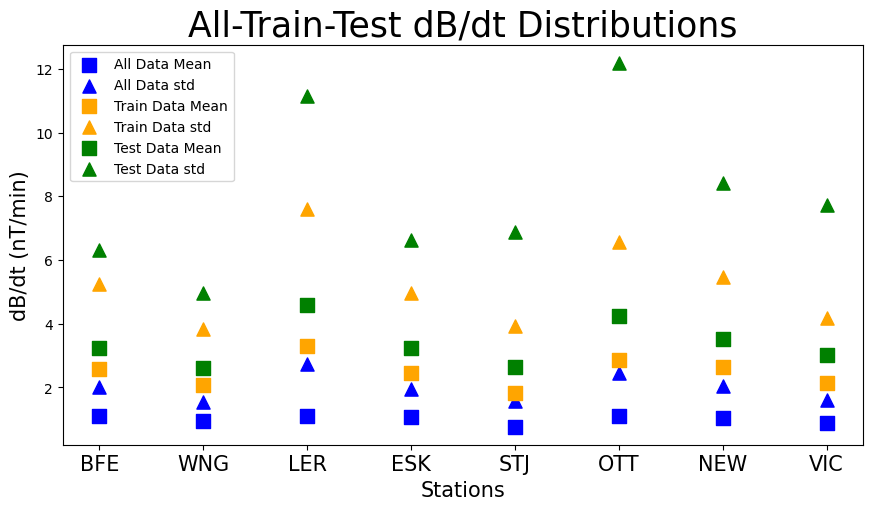
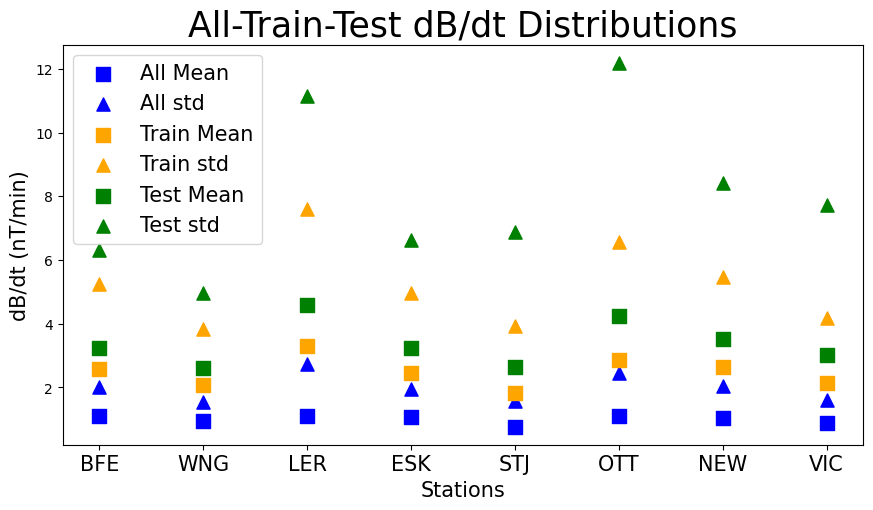
updating plots

Changed region(s): [[0.0928, 0.0882, 0.3093, 0.4706], [0.0928, 0.4412, 0.1237, 0.4706]]

diff --git a/plotting.py b/plotting.py
@@ -207,7 +207,7 @@ def plot_total_metrics(metrics_dict, stations, metrics=['HSS', 'AUC', 'RMSE']):
 
 
 		ax.errorbar(X, y0, yerr=[ymin0, ymax0], fmt='.', color=color0, label='{0}'.format(metric), elinewidth=3, markersize=15, capsize=4, capthick=3)		# plotting the center point with the error bars. list order is important in the y array so it cooresponds to the x label
-		ax.scatter(X, metrics_dict['pers_{0}'.format(metric)], marker='^', color=color1, label='persistance_{0}'.format(metric), s=150)
+		ax.scatter(X, metrics_dict['pers_{0}'.format(metric)], marker='^', color=color1, label='pers.{0}'.format(metric), s=150)
 	# plt.ylim(0,1)																# keeping the plot within limits to eliminate as much white space as possible.
 	# plt.xlim(0,70)
 	plt.xlabel('Stations', fontsize='15')			# adding the label on the x axis label
@@ -413,12 +413,12 @@ def plot_model_outputs(results_dict, storm, splits, title, stime, etime):
 	w1=np.array(BFE_bar['pers_bottom'])
 	w2=np.array(BFE_bar['pers_top'])
 	ax1.plot(BFE['mean'], label='mean')								# plots the mean columns of the dataframe.
-	ax1.fill_between(BFE.index, BFE['bottom_perc'], BFE['top_perc'], alpha=0.2, label='$95^{th}$ percentile')	# type: ignore # fills the area between the confidence interval with a lighter shade
-	ax1.fill_between(BFE_bar.index, BFE_bar['BFE_bottom'], BFE_bar['BFE_top'], where=z2>z1, alpha=1, label='ground truth')												# type: ignore # creates a bar at the top of the plot indicating the positve part of the binary real data
+	ax1.fill_between(BFE.index, BFE['bottom_perc'], BFE['top_perc'], alpha=0.2, label='$95^{th}$ percentile', color='indigo')	# type: ignore # fills the area between the confidence interval with a lighter shade
+	ax1.fill_between(BFE_bar.index, BFE_bar['BFE_bottom'], BFE_bar['BFE_top'], where=z2>z1, alpha=1, label='ground truth', color='orange')												# type: ignore # creates a bar at the top of the plot indicating the positve part of the binary real data
 	ax1.fill_between(BFE_bar.index, BFE_bar['pers_bottom'], BFE_bar['pers_top'], where=w2>w1, alpha=1, color='black', label='persistance')												# type: ignore # creates a bar at the top of the plot indicating the positve part of the binary real data
 	ax1.margins(x=0)							# tightning the plot margins
-	ax1.set_ylabel('BFE', fontsize='15')
-	plt.legend()
+	ax1.set_ylabel('BFE', fontsize='20')
+	# plt.legend()
 	plt.yticks(fontsize='10')
 	# ax1.xaxis.set_major_locator(ticker.NullLocator())
 	ax1.set_xticklabels([], fontsize=0)
@@ -429,11 +429,11 @@ def plot_model_outputs(results_dict, storm, splits, title, stime, etime):
 	w1=np.array(WNG_bar['pers_bottom'])
 	w2=np.array(WNG_bar['pers_top'])
 	ax2.plot(WNG.index, WNG['mean'])
-	ax2.fill_between(WNG.index, WNG['bottom_perc'], WNG['top_perc'], alpha=0.2)  # type: ignore
-	ax2.fill_between(WNG_bar.index, WNG_bar['WNG_bottom'], WNG_bar['WNG_top'], where=z2>z1, alpha=1)  # type: ignore
+	ax2.fill_between(WNG.index, WNG['bottom_perc'], WNG['top_perc'], alpha=0.2, color='indigo')  # type: ignore
+	ax2.fill_between(WNG_bar.index, WNG_bar['WNG_bottom'], WNG_bar['WNG_top'], where=z2>z1, alpha=1, color='orange')  # type: ignore
 	ax2.fill_between(WNG_bar.index, WNG_bar['pers_bottom'], WNG_bar['pers_top'], where=w2>w1, alpha=1, color='black')
 	ax2.margins(x=0)
-	ax2.set_ylabel('WNG', fontsize='15')
+	ax2.set_ylabel('WNG', fontsize='20')
 	plt.yticks(fontsize='10')
 	ax2.set_xticklabels([], fontsize=0)			# adds the date to the bottom of the plot
 
@@ -443,11 +443,11 @@ def plot_model_outputs(results_dict, storm, splits, title, stime, etime):
 	w1=np.array(LER_bar['pers_bottom'])
 	w2=np.array(LER_bar['pers_top'])
 	ax3.plot(LER['mean'])								# plots the mean columns of the dataframe.
-	ax3.fill_between(LER.index, LER['bottom_perc'], LER['top_perc'], alpha=0.2)	# type: ignore # fills the area between the confidence interval with a lighter shade
-	ax3.fill_between(LER_bar.index, LER_bar['LER_bottom'], LER_bar['LER_top'], where=z2>z1, alpha=1)												# type: ignore # creates a bar at the top of the plot indicating the positve part of the binary real data
+	ax3.fill_between(LER.index, LER['bottom_perc'], LER['top_perc'], alpha=0.2, color='indigo')	# type: ignore # fills the area between the confidence interval with a lighter shade
+	ax3.fill_between(LER_bar.index, LER_bar['LER_bottom'], LER_bar['LER_top'], where=z2>z1, alpha=1, color='orange')												# type: ignore # creates a bar at the top of the plot indicating the positve part of the binary real data
 	ax3.fill_between(LER_bar.index, LER_bar['pers_bottom'], LER_bar['pers_top'], where=w2>w1, alpha=1, color='black')
 	ax3.margins(x=0)							# tightning the plot margins
-	ax3.set_ylabel('LER', fontsize='15')
+	ax3.set_ylabel('LER', fontsize='20')
 	plt.yticks(fontsize='10')
 	ax3.set_xticklabels([], fontsize=0)
 
@@ -457,12 +457,13 @@ def plot_model_outputs(results_dict, storm, splits, title, stime, etime):
 	w1=np.array(ESK_bar['pers_bottom'])
 	w2=np.array(ESK_bar['pers_top'])
 	ax4.plot(ESK.index, ESK['mean'])
-	ax4.fill_between(ESK.index, ESK['bottom_perc'], ESK['top_perc'], alpha=0.2)  # type: ignore
-	ax4.fill_between(ESK_bar.index, ESK_bar['ESK_bottom'], ESK_bar['ESK_top'], where=z2>z1, alpha=1)  # type: ignore
+	ax4.fill_between(ESK.index, ESK['bottom_perc'], ESK['top_perc'], alpha=0.2, color='indigo')  # type: ignore
+	ax4.fill_between(ESK_bar.index, ESK_bar['ESK_bottom'], ESK_bar['ESK_top'], where=z2>z1, alpha=1, color='orange')  # type: ignore
 	ax4.fill_between(ESK_bar.index, ESK_bar['pers_bottom'], ESK_bar['pers_top'], where=w2>w1, alpha=1, color='black')
 	ax4.margins(x=0)
-	ax4.set_ylabel('ESK', fontsize='15')
-	plt.yticks(fontsize='15')
+	ax4.set_ylabel('ESK', fontsize='20')
+	plt.yticks(fontsize='10')
+	plt.xticks(fontsize=15)
 	ax4.xaxis.set_major_formatter(mdates.DateFormatter('%b %d\n %H:%M'))			# adds the date to the bottom of the plot
 
 	ax5 = fig.add_subplot(422, sharex=ax1)			# initalizing the subplot
@@ -470,12 +471,13 @@ def plot_model_outputs(results_dict, storm, splits, title, stime, etime):
 	z2=np.array(STJ_bar['STJ_top'])			# creates another array. These two arrays are compared to create the bar at the top of the plots.
 	w1=np.array(STJ_bar['pers_bottom'])
 	w2=np.array(STJ_bar['pers_top'])
-	ax5.plot(STJ['mean'])								# plots the mean columns of the dataframe.
-	ax5.fill_between(STJ.index, STJ['bottom_perc'], STJ['top_perc'], alpha=0.2)	# type: ignore # fills the area between the confidence interval with a lighter shade
-	ax5.fill_between(STJ_bar.index, STJ_bar['STJ_bottom'], STJ_bar['STJ_top'], where=z2>z1, alpha=1)												# type: ignore # creates a bar at the top of the plot indicating the positve part of the binary real data
-	ax5.fill_between(STJ_bar.index, STJ_bar['pers_bottom'], STJ_bar['pers_top'], where=w2>w1, alpha=1, color='black')
+	ax5.plot(STJ['mean'], label='mean')								# plots the mean columns of the dataframe.
+	ax5.fill_between(STJ.index, STJ['bottom_perc'], STJ['top_perc'], alpha=0.2, label='$95^{th}$ percentile', color='indigo')	# type: ignore # fills the area between the confidence interval with a lighter shade
+	ax5.fill_between(STJ_bar.index, STJ_bar['STJ_bottom'], STJ_bar['STJ_top'], where=z2>z1, alpha=1, label='ground truth', color='orange')												# type: ignore # creates a bar at the top of the plot indicating the positve part of the binary real data
+	ax5.fill_between(STJ_bar.index, STJ_bar['pers_bottom'], STJ_bar['pers_top'], where=w2>w1, alpha=1, color='black', label='persistance')
+	plt.legend(loc='upper left', fontsize='15')
 	ax5.margins(x=0)							# tightning the plot margins
-	ax5.set_ylabel('STJ', fontsize='15')
+	ax5.set_ylabel('STJ', fontsize='20')
 	plt.yticks(fontsize='10')
 	ax5.set_xticklabels([], fontsize=0)
 
@@ -485,11 +487,11 @@ def plot_model_outputs(results_dict, storm, splits, title, stime, etime):
 	w1=np.array(OTT_bar['pers_bottom'])
 	w2=np.array(OTT_bar['pers_top'])
 	ax6.plot(OTT['mean'])
-	ax6.fill_between(OTT.index, OTT['bottom_perc'], OTT['top_perc'], alpha=0.2)  # type: ignore
-	ax6.fill_between(OTT_bar.index, OTT_bar['OTT_bottom'], OTT_bar['OTT_top'], where=z2>z1, alpha=1)  # type: ignore
+	ax6.fill_between(OTT.index, OTT['bottom_perc'], OTT['top_perc'], alpha=0.2, color='indigo')  # type: ignore
+	ax6.fill_between(OTT_bar.index, OTT_bar['OTT_bottom'], OTT_bar['OTT_top'], where=z2>z1, alpha=1, color='orange')  # type: ignore
 	ax6.fill_between(OTT_bar.index, OTT_bar['pers_bottom'], OTT_bar['pers_top'], where=w2>w1, alpha=1, color='black')
 	ax6.margins(x=0)
-	ax6.set_ylabel('OTT', fontsize='15')
+	ax6.set_ylabel('OTT', fontsize='20')
 	plt.yticks(fontsize='10')
 	plt.xticks(fontsize=5)
 	ax6.set_xticklabels([], fontsize=0)
@@ -500,11 +502,11 @@ def plot_model_outputs(results_dict, storm, splits, title, stime, etime):
 	w1=np.array(NEW_bar['pers_bottom'])
 	w2=np.array(NEW_bar['pers_top'])
 	ax7.plot(NEW['mean'])
-	ax7.fill_between(NEW.index, NEW['bottom_perc'], NEW['top_perc'], alpha=0.2)  # type: ignore
-	ax7.fill_between(NEW_bar.index, NEW_bar['NEW_bottom'], NEW_bar['NEW_top'], where=z2>z1, alpha=1)  # type: ignore
+	ax7.fill_between(NEW.index, NEW['bottom_perc'], NEW['top_perc'], alpha=0.2, color='indigo')  # type: ignore
+	ax7.fill_between(NEW_bar.index, NEW_bar['NEW_bottom'], NEW_bar['NEW_top'], where=z2>z1, alpha=1, color='orange')  # type: ignore
 	ax7.fill_between(NEW_bar.index, NEW_bar['pers_bottom'], NEW_bar['pers_top'], where=w2>w1, alpha=1, color='black')
 	ax7.margins(x=0)
-	ax7.set_ylabel('NEW', fontsize='15')
+	ax7.set_ylabel('NEW', fontsize='20')
 	plt.yticks(fontsize='10')
 	plt.xticks(fontsize=5)
 	ax7.set_xticklabels([], fontsize=0)
@@ -515,13 +517,13 @@ def plot_model_outputs(results_dict, storm, splits, title, stime, etime):
 	w1=np.array(VIC_bar['pers_bottom'])
 	w2=np.array(VIC_bar['pers_top'])
 	ax8.plot(VIC['mean'])
-	ax8.fill_between(VIC.index, VIC['bottom_perc'], VIC['top_perc'], alpha=0.2)  # type: ignore
-	ax8.fill_between(VIC_bar.index, VIC_bar['VIC_bottom'], VIC_bar['VIC_top'], where=z2>z1, alpha=1)  # type: ignore
+	ax8.fill_between(VIC.index, VIC['bottom_perc'], VIC['top_perc'], alpha=0.2, color='indigo')  # type: ignore
+	ax8.fill_between(VIC_bar.index, VIC_bar['VIC_bottom'], VIC_bar['VIC_top'], where=z2>z1, alpha=1, color='orange')  # type: ignore
 	ax8.fill_between(VIC_bar.index, VIC_bar['pers_bottom'], VIC_bar['pers_top'], where=w2>w1, alpha=1, color='black')
 	ax8.margins(x=0)
-	ax8.set_ylabel('VIC', fontsize='15')
+	ax8.set_ylabel('VIC', fontsize='20')
 	plt.yticks(fontsize='10')
-	plt.xticks(fontsize=10)
+	plt.xticks(fontsize=15)
 	ax8.xaxis.set_major_formatter(mdates.DateFormatter('%b %d\n %H:%M'))			# adds the date to the bottom of the plot
 
 	plt.savefig('plots/k_fold_{0}_storm.png'.format(storm), bbox_inches='tight')		# saves the plot

diff --git a/data_distributions.py b/data_distributions.py
@@ -388,17 +388,17 @@ def plotting_data_distributions(all_data, train_data, test_data):
 	# ax.errorbar(x0, y0, yerr=[0,ystd0], fmt='.k', color='blue', label='All Data', elinewidth=5, markersize=50, capsize=25, capthick=5)		# plotting the center point with the error bars. list order is important in the y array so it cooresponds to the x label
 	# ax.errorbar(x1, y1, yerr=[0,ystd1], fmt='.k', color='orange', label='Train Data', elinewidth=5, markersize=50, capsize=25, capthick=5)		# plotting the center point with the error bars. list order is important in the y array so it cooresponds to the x label
 	# ax.errorbar(x2, y2, yerr=[0,ystd2], fmt='.k', color='green', label='Test Data', elinewidth=5, markersize=50, capsize=25, capthick=5)		# plotting the center point with the error bars. list order is important in the y array so it cooresponds to the x label
-	ax.scatter(x1, y0, marker='s', color='blue', label='All Data Mean', s=100)
-	ax.scatter(x1, ystd0, marker='^', color='blue', label='All Data std', s=90)
-	ax.scatter(x1, y1, marker='s', color='orange', label='Train Data Mean', s=100)
-	ax.scatter(x1, ystd1, marker='^', color='orange', label='Train Data std', s=90)
-	ax.scatter(x1, y2, marker='s', color='green', label='Test Data Mean', s=100)
-	ax.scatter(x1, ystd2, marker='^', color='green', label='Test Data std', s=90)
+	ax.scatter(x1, y0, marker='s', color='blue', label='All Mean', s=100)
+	ax.scatter(x1, ystd0, marker='^', color='blue', label='All std', s=90)
+	ax.scatter(x1, y1, marker='s', color='orange', label='Train Mean', s=100)
+	ax.scatter(x1, ystd1, marker='^', color='orange', label='Train std', s=90)
+	ax.scatter(x1, y2, marker='s', color='green', label='Test Mean', s=100)
+	ax.scatter(x1, ystd2, marker='^', color='green', label='Test std', s=90)
 	plt.xlabel('Stations', fontsize='15')			# adding the label on the x axis label
 	plt.ylabel('dB/dt (nT/min)', fontsize='15')				# adding teh y axis label
 	plt.xticks(X, CONFIG['stations'], fontsize='15')		# adding ticks to the points on the x axis
 	plt.yticks(fontsize='10')						# making the y ticks a bit bigger. They're a bit more important
-	plt.legend(fontsize='10', loc='upper left')
+	plt.legend(fontsize='15', loc='upper left')
 
 	plt.savefig('plots/data_distribution.png', bbox_inches='tight')
 
